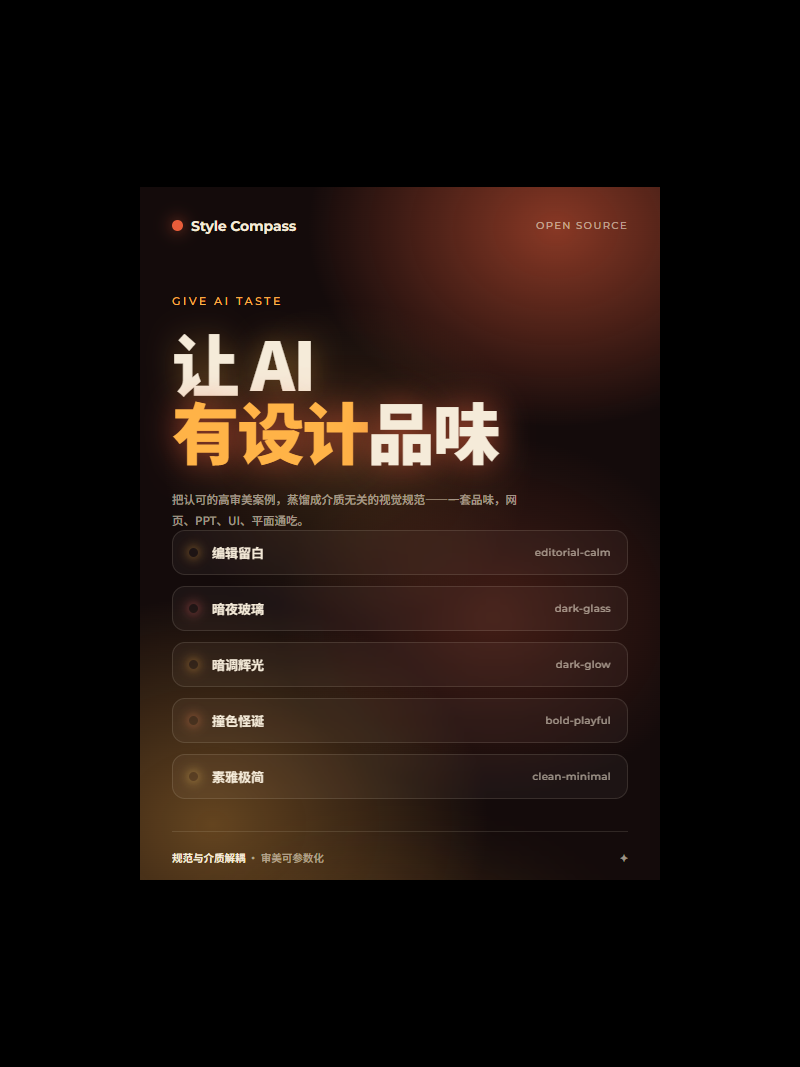
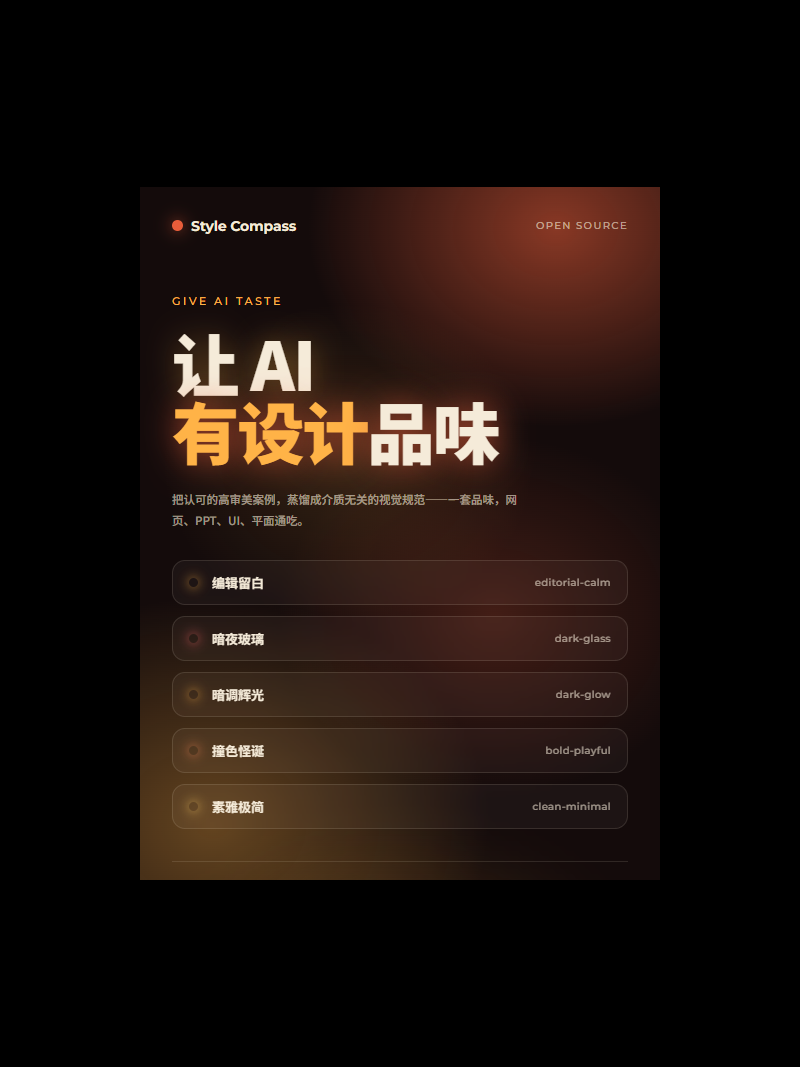
fix(poster): add breathing between subtitle and style list, and bottom margin
- dark-glass / dark-glow: add margin-bottom to the subtitle so it no longer
  hugs the style list block
- dark-glass / clean-minimal: widen bottom padding so footer isn't at the edge

Changed region(s): [[0.2188, 0.4948, 0.4062, 0.8351], [0.6562, 0.4948, 0.7812, 0.7732]]

diff --git a/examples/style-compass/poster.html b/examples/style-compass/poster.html
@@ -50,7 +50,7 @@
   .head h1{font-family:var(--serif);font-weight:900;line-height:1.08;letter-spacing:-.02em;font-size:clamp(2.7rem,11.5vw,3.8rem);
     background:linear-gradient(180deg,#fff 30%,rgba(255,255,255,.6));-webkit-background-clip:text;background-clip:text;color:transparent}
   .head h1 .hl{color:var(--accent);-webkit-text-fill-color:var(--accent)}
-  .head .intro{color:var(--ink-dim);font-size:13.5px;line-height:1.8;margin-top:26px;max-width:86%}
+  .head .intro{color:var(--ink-dim);font-size:13.5px;line-height:1.8;margin-top:26px;margin-bottom:30px;max-width:86%}
 
   /* 六卡区：作为一个独立"块"，下沉贴底；块内密、与其他块之间放大间隔 */
   .label-row{margin-top:auto;display:flex;align-items:center;color:var(--ink-faint);font-size:11px;letter-spacing:.14em;text-transform:uppercase;margin-bottom:20px}

diff --git a/examples/style-compass/poster-glow.html b/examples/style-compass/poster-glow.html
@@ -50,7 +50,7 @@
   .head h1 .l1{color:var(--ink);text-shadow:0 0 30px rgba(255,179,71,.4)}
   .head h1 .l2{color:var(--glow2);text-shadow:0 0 34px rgba(232,93,58,.7)}
   .head h1 .l3{color:var(--ink)}
-  .head .sub{font-size:11.5px;color:var(--dim);margin-top:24px;max-width:80%;line-height:1.8}
+  .head .sub{font-size:11.5px;color:var(--dim);margin-top:24px;margin-bottom:30px;max-width:80%;line-height:1.8}
 
   /* 风格列表：单列竖向光点列表，聚焦不散 */
   .styles-cap{font-family:var(--en);font-size:10px;color:var(--dim);letter-spacing:.18em;text-transform:uppercase;margin-bottom:16px}
